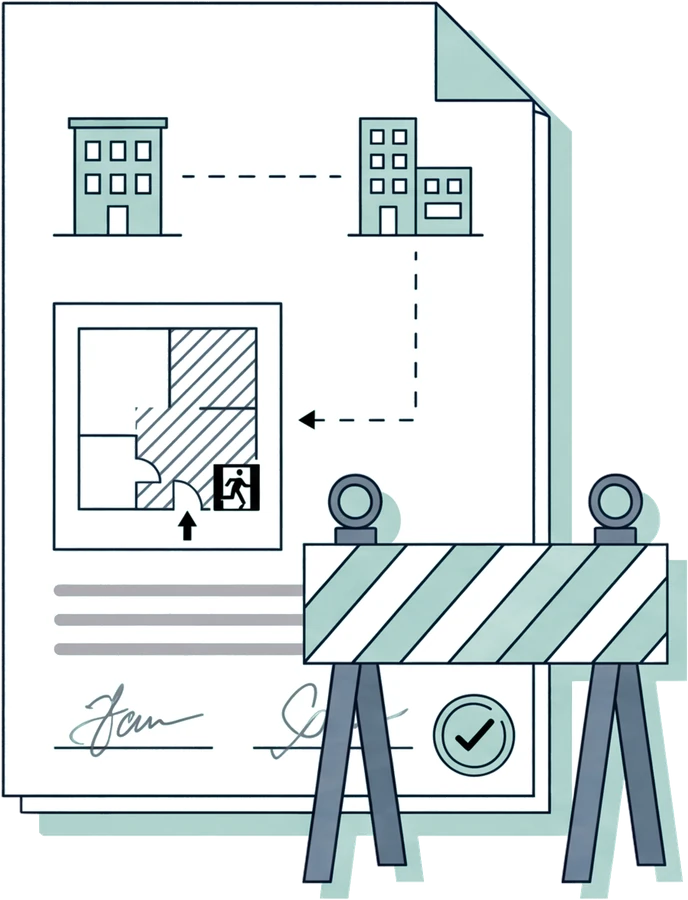
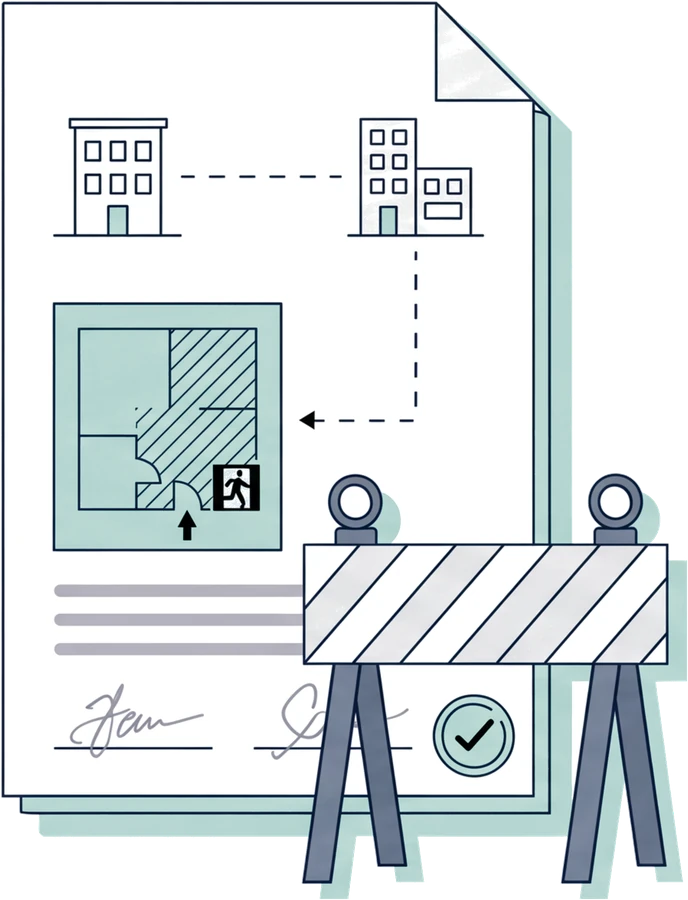
En-têtes Santé-sécurité : plus de blanc
Retour de la propriétaire du 2026-11-18 : fonds des pictogrammes, cadres
des badges et du porte-bloc, dos du classeur et bandes de la barrière
passent en blanc ; l'eau ne reste que sur les ombres et quelques touches.

diff --git a/src/components/entete-page/illustrations/Duerp.tsx b/src/components/entete-page/illustrations/Duerp.tsx
@@ -10,7 +10,7 @@ export function IllustrationDuerp() {
   return (
     <ImageEnTete
       src="/illustrations/entetes/duerp.webp"
-      width={719}
+      width={720}
       height={900}
       className="w-[clamp(202px,19vw,272px)]"
     />

diff --git a/src/components/entete-page/illustrations/Equipe.tsx b/src/components/entete-page/illustrations/Equipe.tsx
@@ -11,7 +11,7 @@ export function IllustrationEquipe() {
     <ImageEnTete
       src="/illustrations/entetes/equipe.webp"
       width={900}
-      height={785}
+      height={786}
       className="w-[clamp(290px,27vw,390px)]"
     />
   );
